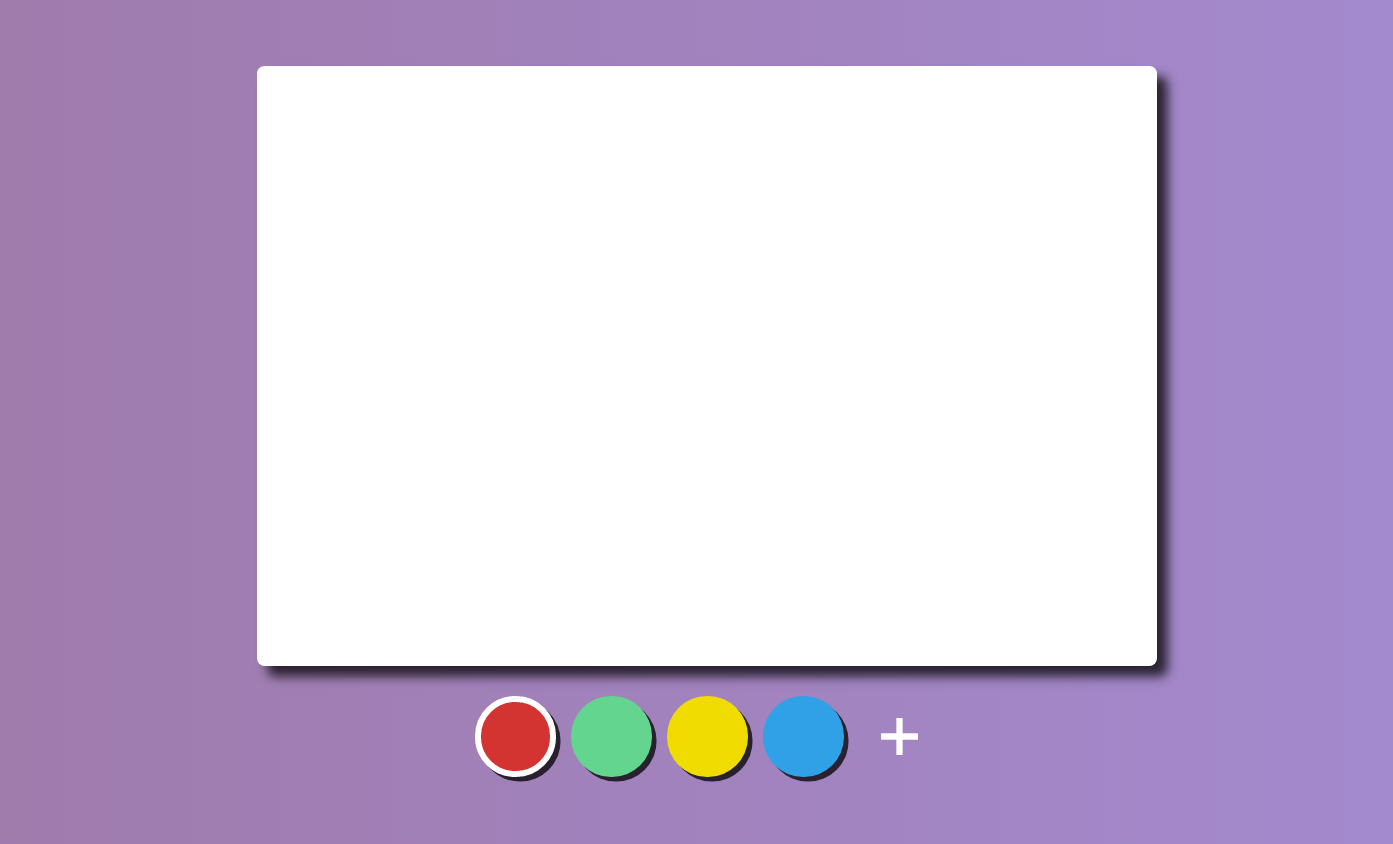
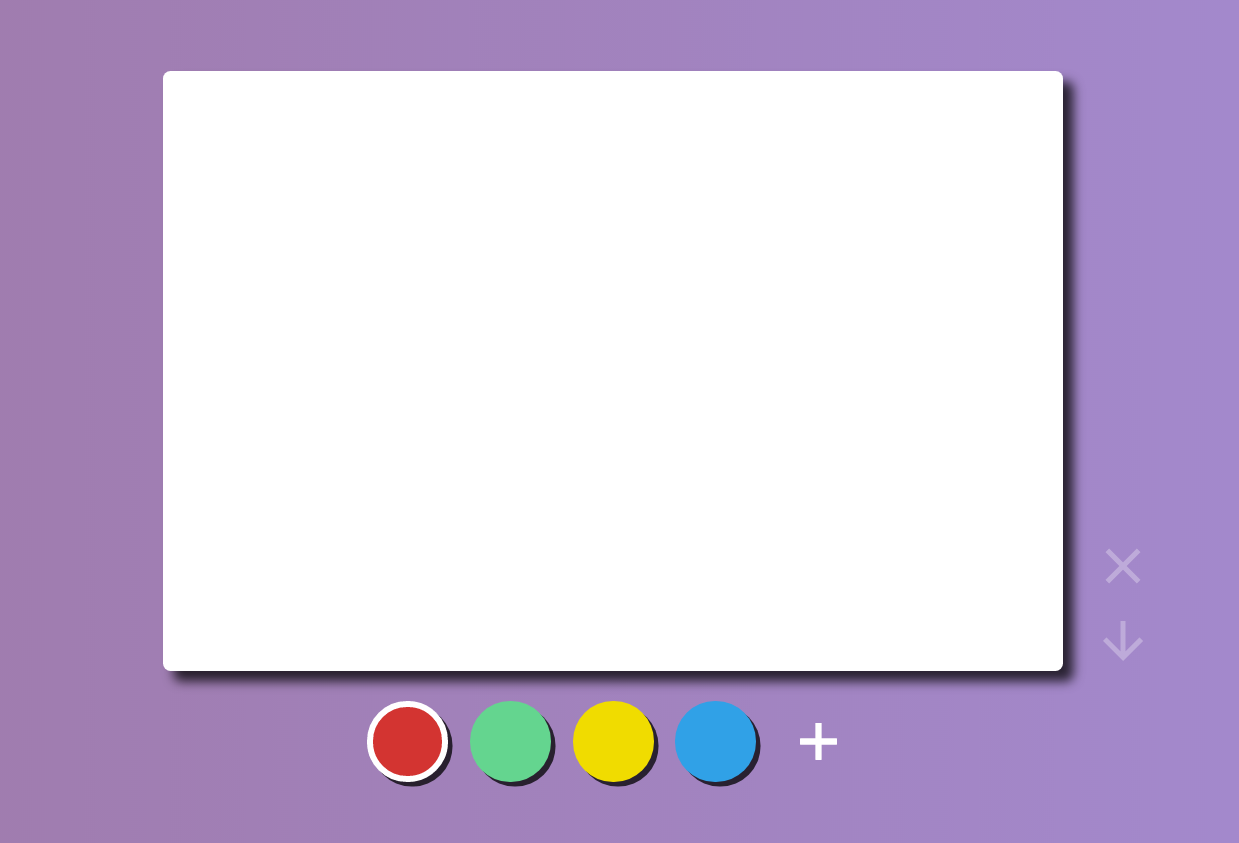
:books: Screenshot + semi-transparent buttons

Changed region(s): [[0.1227, 0.0617, 0.9201, 0.9561]]

diff --git a/app/css/application.css b/app/css/application.css
@@ -88,9 +88,12 @@ body {
 .button {
   border: 0;
   height: 40px;
+  opacity: .3;
   width: 40px; }
   .button:focus {
     outline: none; }
+  .button:hover {
+    opacity: 1; }
 
 .button-clear {
   background: url("../img/clear.svg") no-repeat;

diff --git a/app/scss/_drawing.scss b/app/scss/_drawing.scss
@@ -101,9 +101,13 @@ body {
 .button {
   border: 0;
   height: 40px;
+  opacity: .3;
   width: 40px;
   &:focus {
     outline: none;
+  }
+  &:hover {
+    opacity: 1;
   }
 }
 
